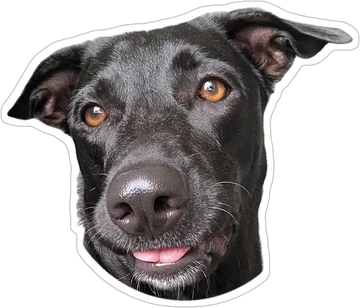
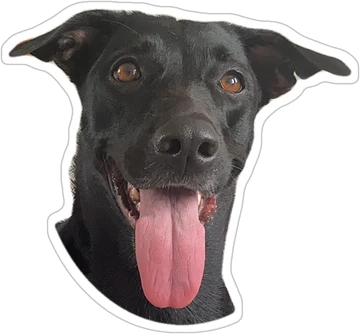
Links: Mel com o rosto inteiro, Maggie de língua de fora, polaroids mais perto da linha do tempo
Claude-Session: https://claude.ai/code/session_01JJzwKmvC96HGkRzqWkPA92

diff --git a/links/index.html b/links/index.html
@@ -386,7 +386,7 @@
       .numero span { margin-top: 0; }
 
       /* linha do tempo: linha no meio, cards alternando os lados */
-      .cabeca-tempo { text-align: center; padding-top: 14px; min-height: 236px; }
+      .cabeca-tempo { text-align: center; padding-top: 14px; min-height: 200px; }
       .cabeca-tempo .fotinhos { position: absolute; inset: 0 0 auto 0; margin: 0; justify-content: space-between; pointer-events: none; }
       .cabeca-tempo .fotinhos .polaroid { width: 170px; max-width: none; pointer-events: auto; }
       .cabeca-tempo .fotinhos .polaroid:first-child { transform: rotate(-7deg); }
